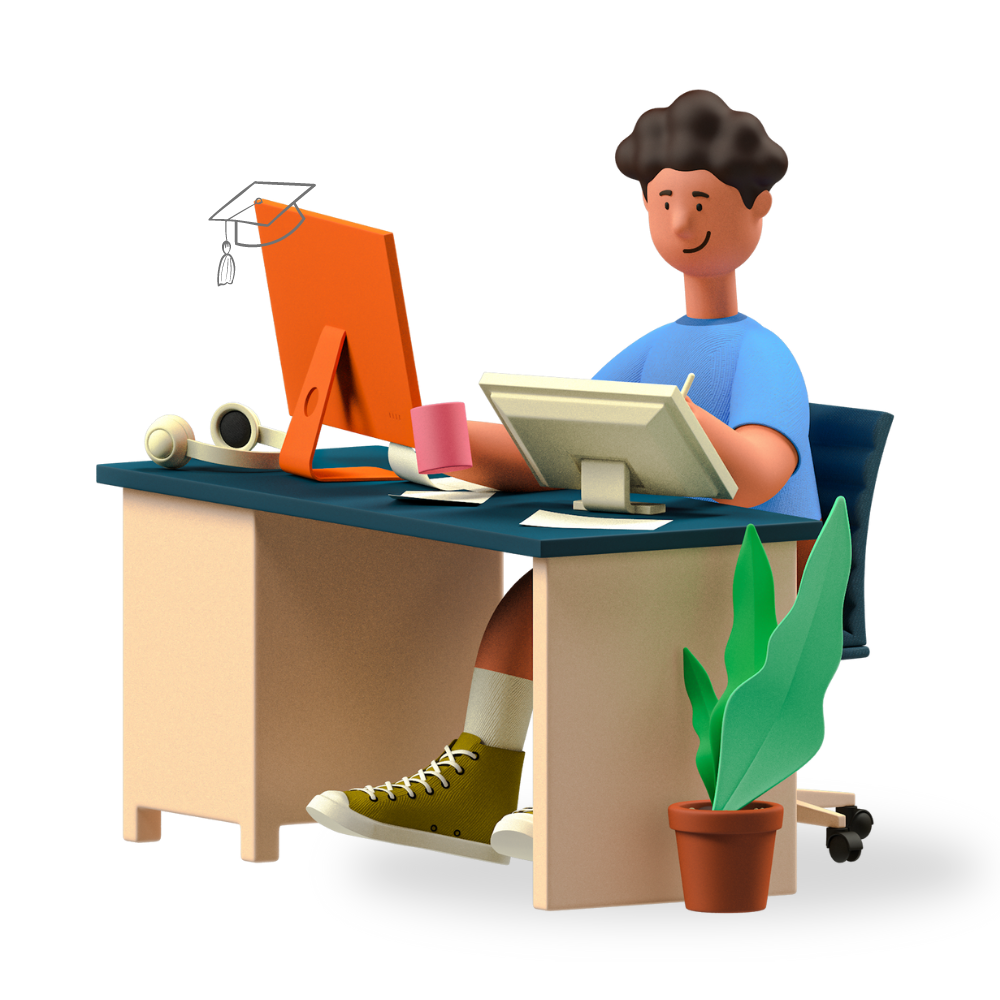
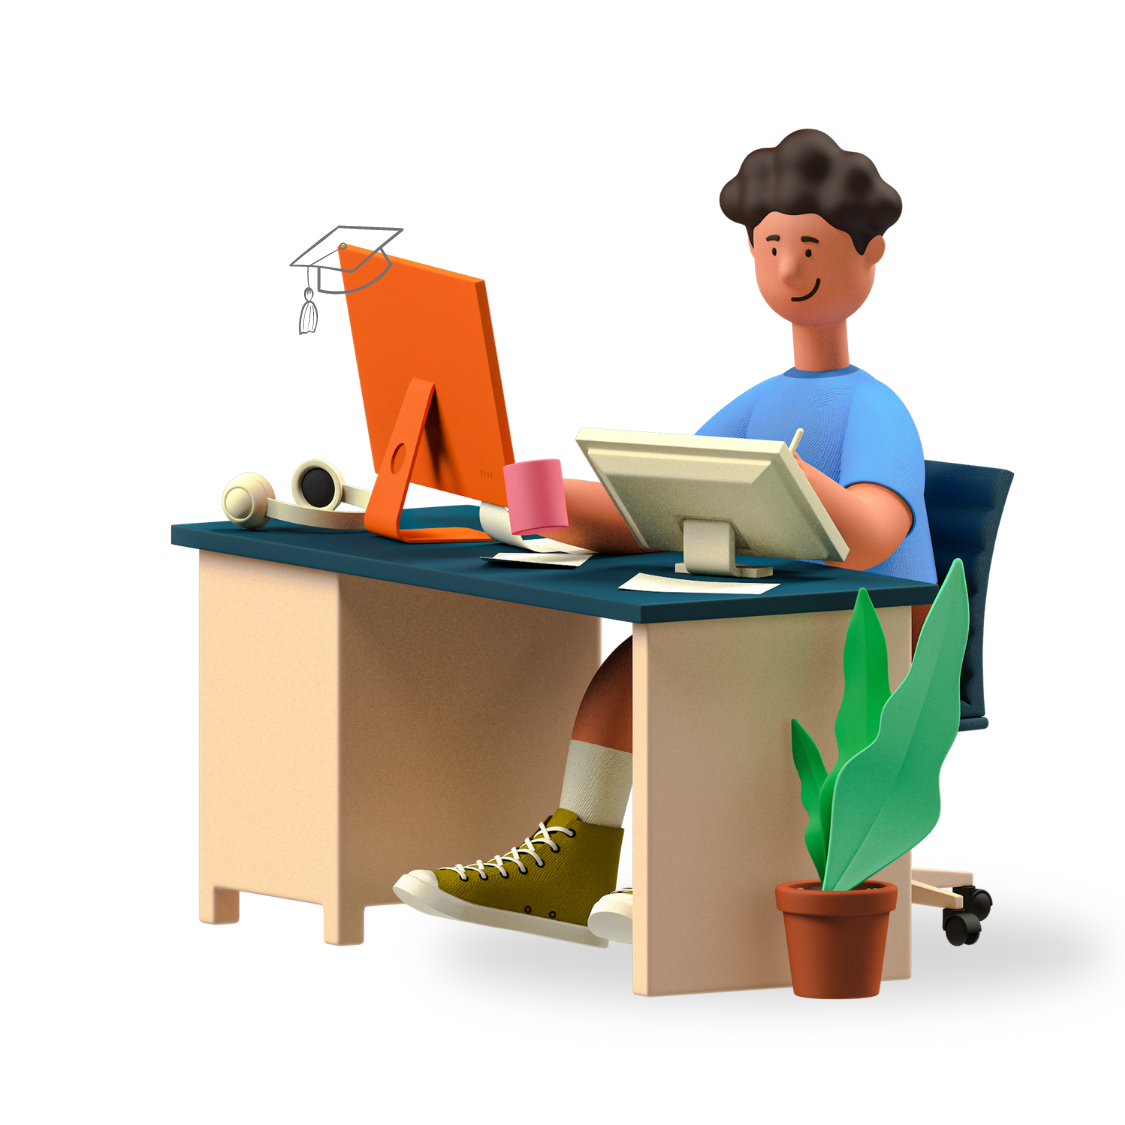
updated hero image

Changed region(s): [[0.093, 0.093, 0.899, 0.93], [0.775, 0.341, 0.806, 0.372]]

diff --git a/src/Pages/Landing/Hero.jsx b/src/Pages/Landing/Hero.jsx
@@ -1,7 +1,7 @@
 import { Link } from 'react-router-dom';
 import competionHubLogo from '../../assets/competitonHublogo.png'
 import '../../App.css';
-import heroLeft from '../../assets/heroLeftWhite.png'
+import heroLeft from '../../assets/HeroLeftWhite.png'
 
 
 const Hero = () => {
